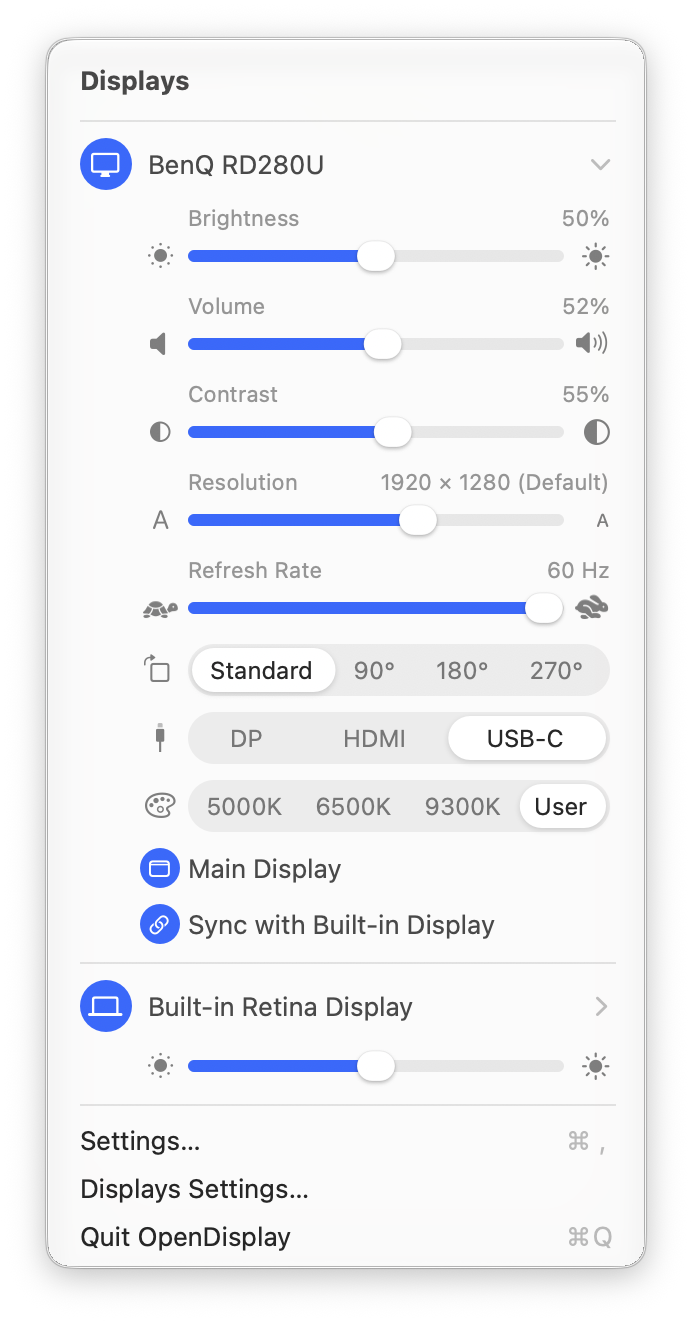
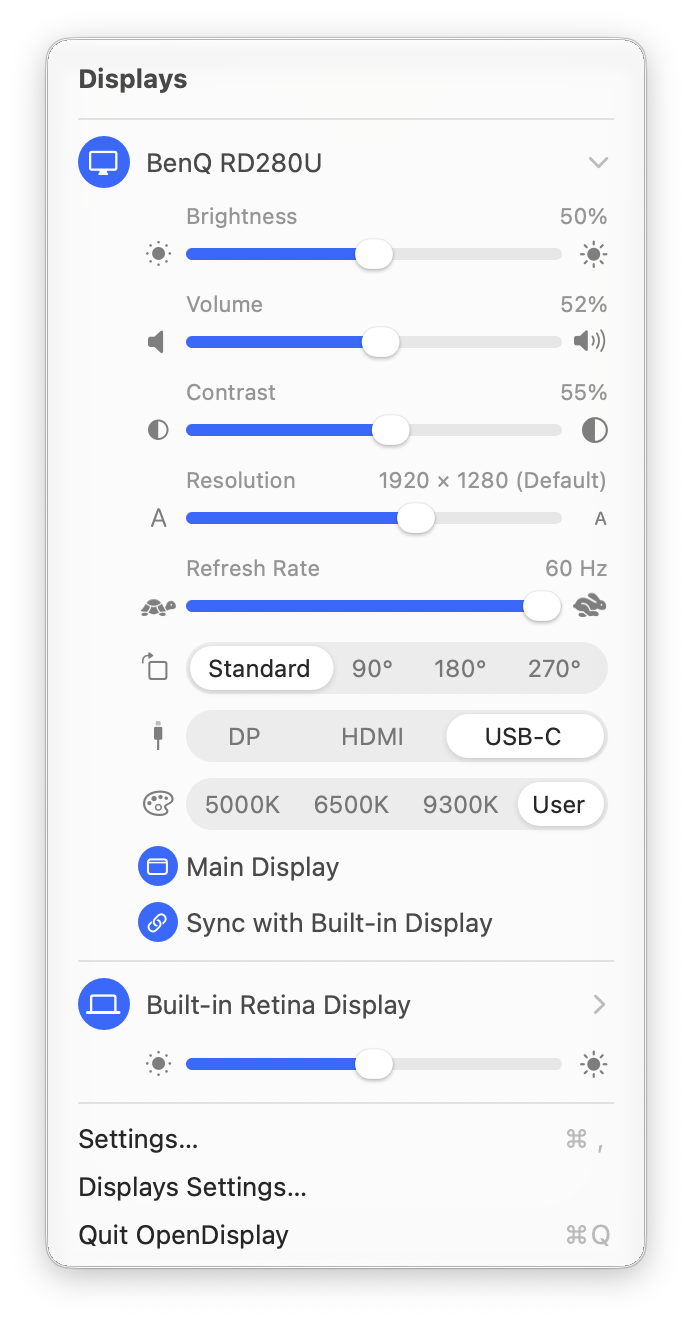
Line up the glass exactly with the menu in screenshots
The menu was 2 px off from the assumed position in the area capture, so
the screenshots showed a second outline inside the system outline.
compose-menu.py now finds the offset where the text and icons of both
captures line up. The raw captures stay in build/screenshots.

diff --git a/scripts/compose-menu.py b/scripts/compose-menu.py
@@ -16,7 +16,7 @@ Needs Pillow: pip3 install pillow
 """
 import sys
 
-from PIL import Image
+from PIL import Image, ImageChops, ImageFilter, ImageStat
 
 window_path, area_path, dest, scale = sys.argv[1], sys.argv[2], sys.argv[3], int(sys.argv[4])
 
@@ -28,9 +28,28 @@ alpha = window.split()[3]
 opaque = alpha.point(lambda a: 255 if a >= 250 else 0)
 left, top, right, bottom = opaque.getbbox()
 
-# The same menu in the area capture: 40 x 30 pt from its top left corner.
-x, y = round(40 * scale), round(30 * scale)
-inside = area.crop((x, y, x + right - left, y + bottom - top))
+# The same menu in the area capture: about 40 x 30 pt from its top left corner, but the exact position can be a few
+# pixels off. The text and icons are the same in both captures (only the glass differs), so find the offset where
+# their edges line up best.
+width, height = right - left, bottom - top
+edges = lambda image: image.convert("L").filter(ImageFilter.FIND_EDGES)
+margin = round(16 * scale)  # Compare only the inside, away from the outline of the menu.
+target = edges(window.crop((left, top, right, bottom))).crop((margin, margin, width - margin, height - margin))
+area_edges = edges(area)
+x0, y0 = round(40 * scale), round(30 * scale)
+search = round(4 * scale)
+
+
+def mismatch(dx, dy):
+    x, y = x0 + dx, y0 + dy
+    candidate = area_edges.crop((x + margin, y + margin, x + width - margin, y + height - margin))
+    return sum(ImageStat.Stat(ImageChops.difference(target, candidate)).mean)
+
+
+dx, dy = min(((dx, dy) for dx in range(-search, search + 1) for dy in range(-search, search + 1)), key=lambda d: mismatch(*d))
+x, y = x0 + dx, y0 + dy
+print(f"{dest}: menu found {dx:+d} x {dy:+d} px from the expected position", file=sys.stderr)
+inside = area.crop((x, y, x + width, y + height))
 
 # Replace only the opaque pixels, so the system's rounded corners, outline, and shadow stay.
 window.paste(inside, (left, top), opaque.crop((left, top, right, bottom)))
